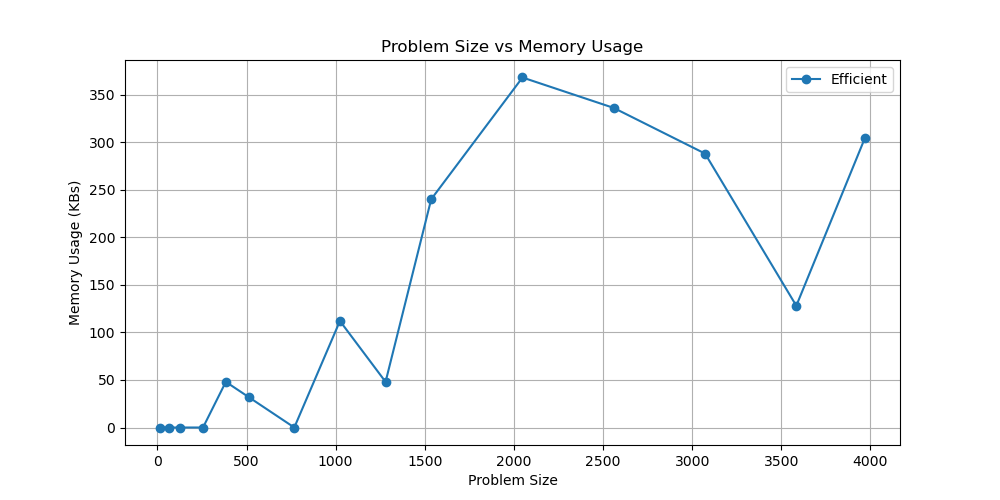
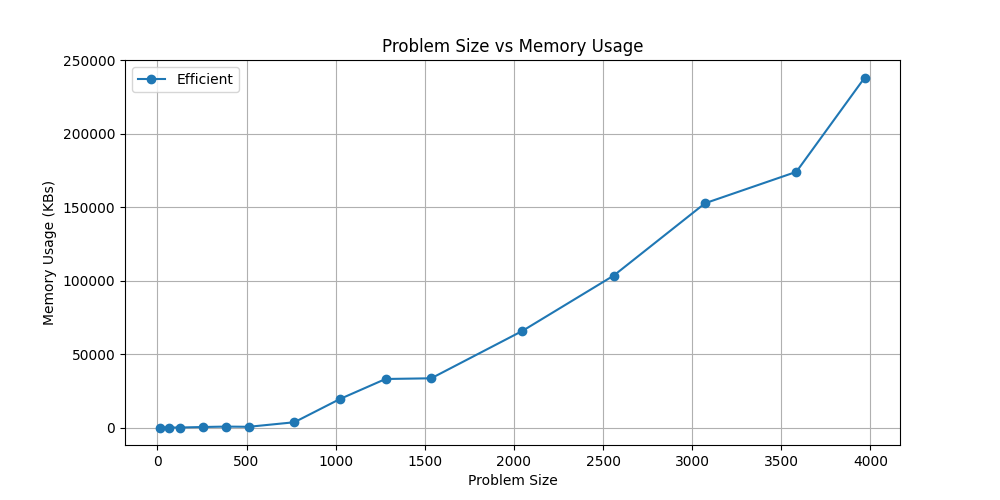
Get better memory plots

diff --git a/solutions/efficient_3.py b/solutions/efficient_3.py
@@ -77,18 +77,18 @@ def top_down_pass(DP, str_1, str_2):
             aligned_str_2 += str_2[j-1]
             j -= 1
             
-        update_memory()
+        # update_memory()
 
     while i > 0:
         aligned_str_1 += str_1[i-1]
         aligned_str_2 += "_"
         i -= 1
-        update_memory()
+        # update_memory()
     while j > 0:
         aligned_str_1 += "_"
         aligned_str_2 += str_2[j-1]
         j -= 1
-        update_memory()
+        # update_memory()
 
     return aligned_str_1[::-1], aligned_str_2[::-1]
 
@@ -96,7 +96,7 @@ def sequence_alignment_basic(str_1, str_2, gap_penalty, mismatch_cost):
     m = len(str_1)
     n = len(str_2)
     DP = zeros(m+1, n+1)
-    update_memory()
+    # update_memory()
     
     for i in range(m+1):
         DP[i][0] = i * gap_penalty
@@ -122,7 +122,7 @@ def build_table(X, Y, gap_penalty, mismatch_cost):
 
     for i in range(1, n+1):
         DP_old[i] = i * gap_penalty
-    update_memory()
+        update_memory()
     
     for i in range(1, m+1):
         DP_cur[0] = i * gap_penalty
@@ -133,7 +133,7 @@ def build_table(X, Y, gap_penalty, mismatch_cost):
                 gap_penalty + DP_old[j],
                 gap_penalty + DP_cur[j-1]
             )
-        update_memory()
+            update_memory()
         DP_old = copy.deepcopy(DP_cur)
         update_memory()
     

diff --git a/solutions/basic_3.py b/solutions/basic_3.py
@@ -98,19 +98,19 @@ def top_down_pass(DP, str_1, str_2):
             aligned_str_2 += str_2[j-1]
             j = j-1
             
-        update_memory()
+        # update_memory()
 
     # We need to align the strings with "_" once only one string has been fully consumed
     while i > 0:
         aligned_str_1 += str_1[i-1]
         aligned_str_2 += "_"
         i = i-1
-        update_memory()
+        # update_memory()
     while j > 0:
         aligned_str_1 += "_"
         aligned_str_2 += str_2[j-1]
         j = j-1
-        update_memory()
+        # update_memory()
 
     # Reverse the strings and return them
     return aligned_str_1[::-1], aligned_str_2[::-1]
